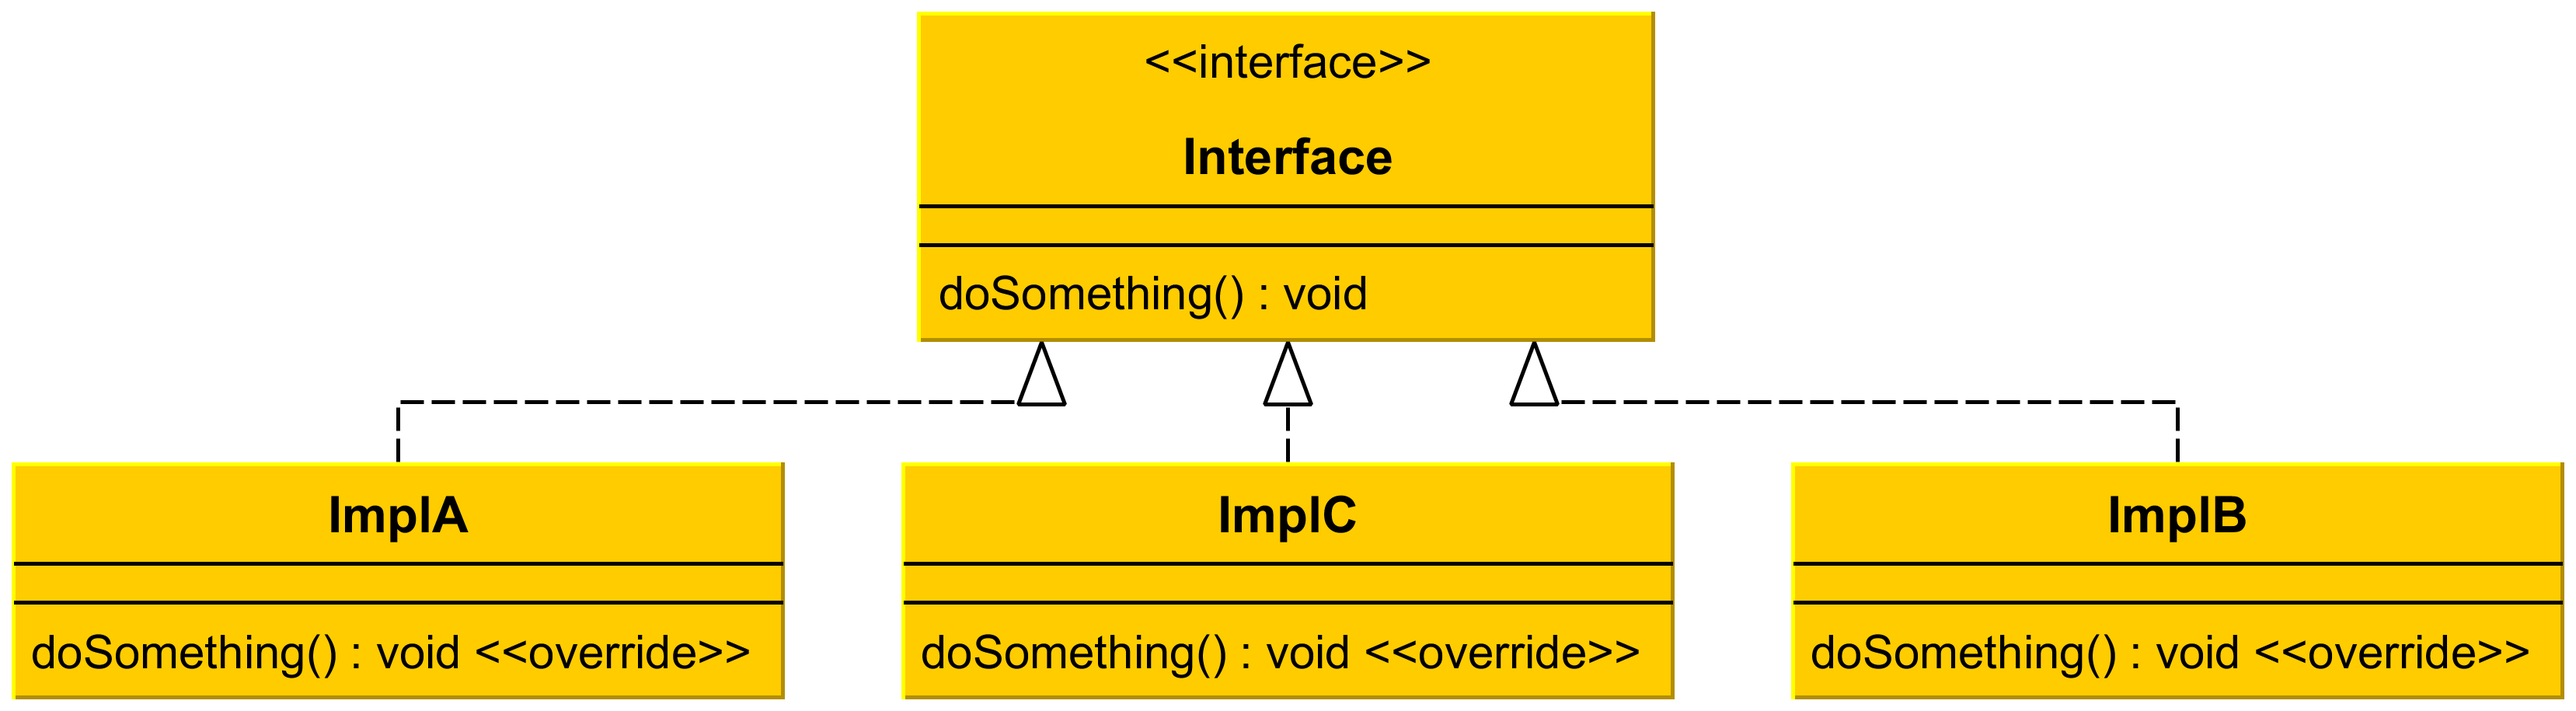
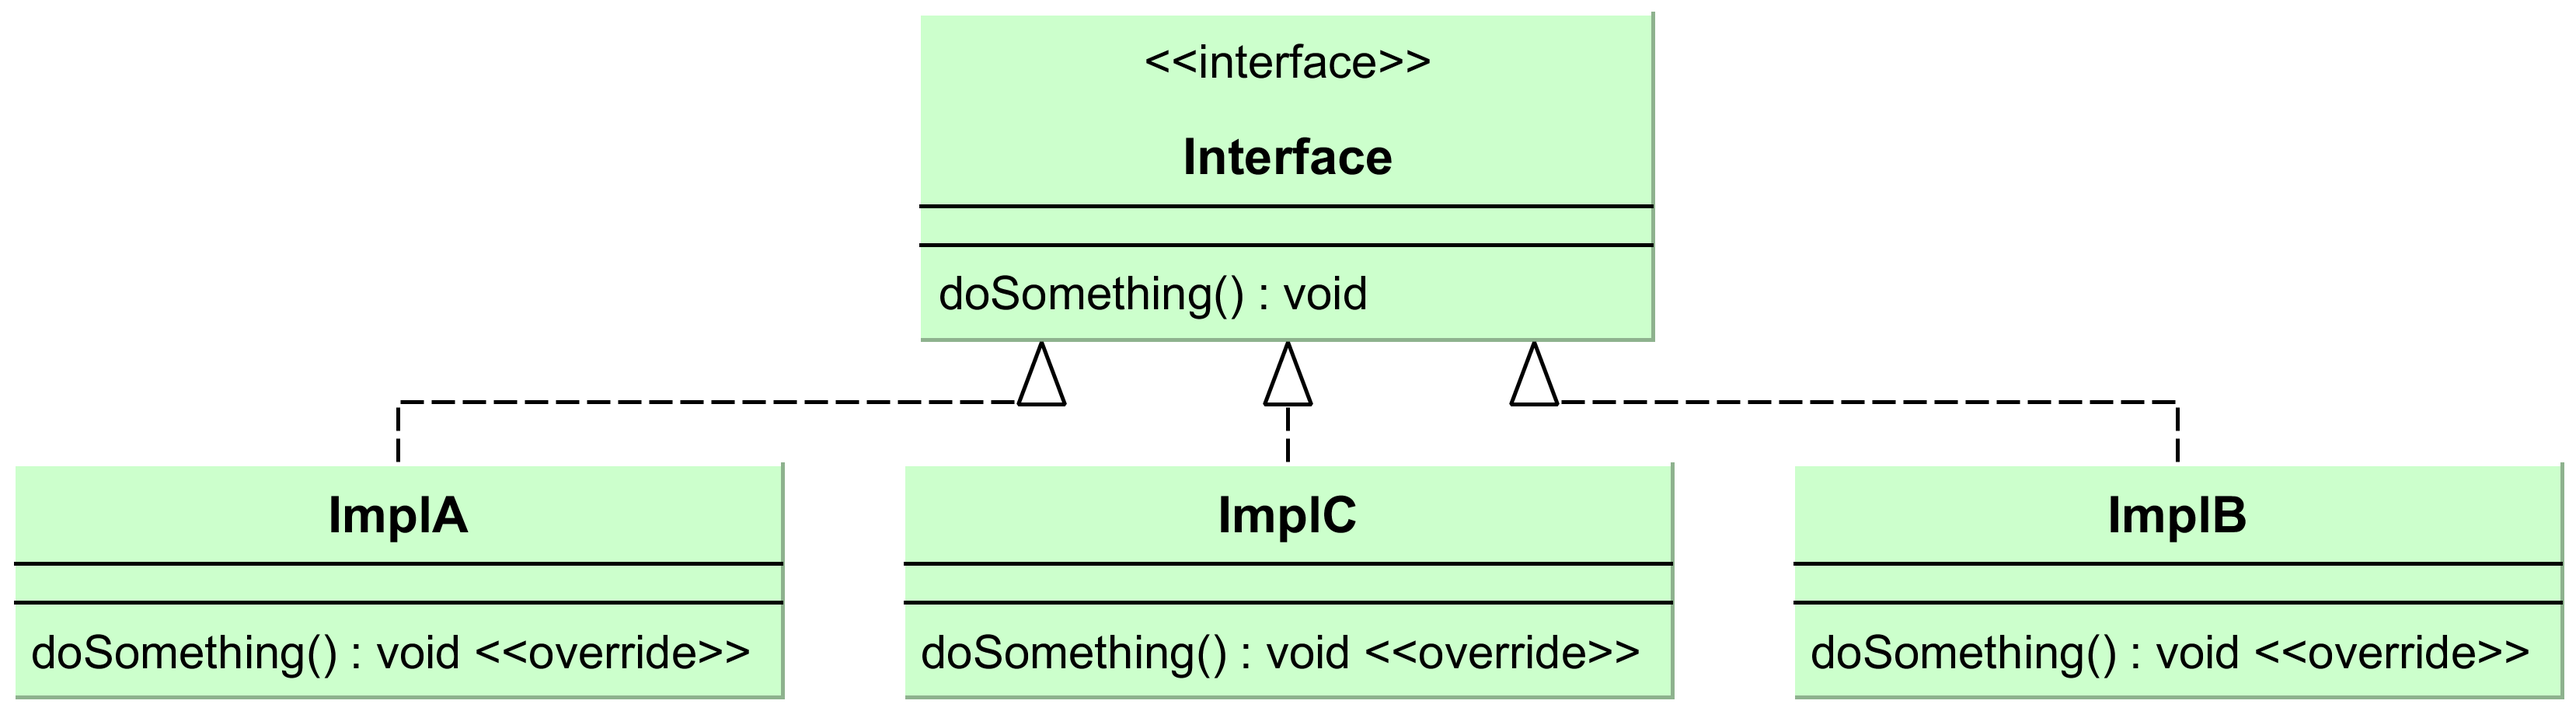
updated coloring of figures

diff --git a/README.md b/README.md
@@ -21,14 +21,13 @@ target_link_libraries(MyExecutable PolyVector)
 
  ```
 
-
 ## Example
 
 Given a class hierarchy as illustrated by the figure below:
 
-![Sample Hierarchy][hierarchy]
+![](doc/images/demo_hierarchy.png)
+*```Example class hierarchy*
 
-[hierarchy]: doc/images/demo_hierarchy.png "Class hierarchy example"
 
 One can store implementations of Interface interface in a ```poly_vector<Interface>``` container
 
